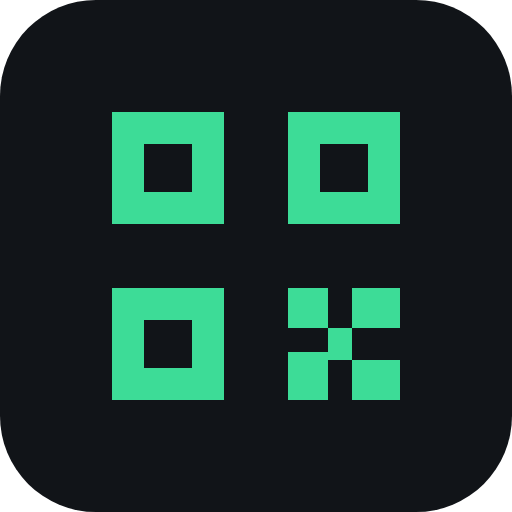
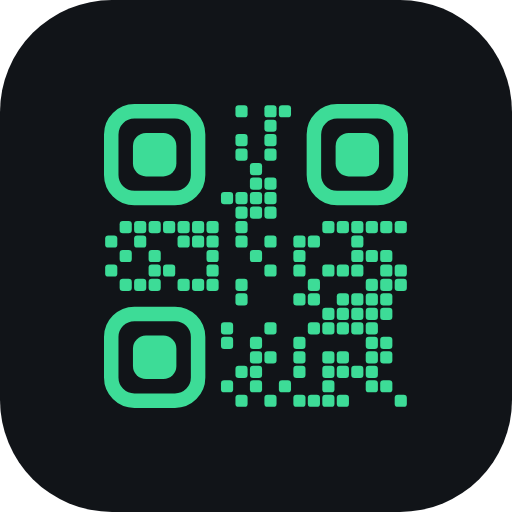
アイコンを新デザイン（細かいQR模様・角丸の目印）に差し替え
Claude-Session: https://claude.ai/code/session_011kUTucjEwmxXiLkZdYSVi6

diff --git a/sw.js b/sw.js
@@ -1,5 +1,5 @@
 // オフラインでも開けるようにファイルをキャッシュする
-const CACHE = 'qr-reader-v6';
+const CACHE = 'qr-reader-v7';
 const FILES = ['./', 'index.html', 'style.css', 'app.js', 'jsQR.js', 'manifest.json', 'icon.svg', 'privacy.html', 'icons/icon-192.png', 'icons/icon-512.png'];
 self.addEventListener('install', (e) => { e.waitUntil(caches.open(CACHE).then((c) => c.addAll(FILES))); self.skipWaiting(); });
 self.addEventListener('activate', (e) => {
